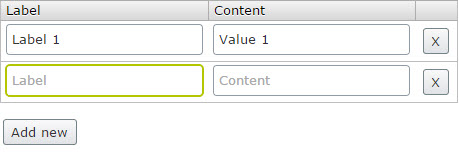
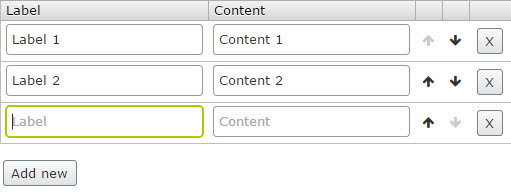
Bug fixes/changes to KeyValueList.

Changed region(s): [[0.0, 0.0256, 1.0, 0.7949], [0.0, 0.8205, 0.183, 0.9744]]

diff --git a/src/ClientResources/Scripts/editors/KeyValueList.js b/src/ClientResources/Scripts/editors/KeyValueList.js
@@ -15,8 +15,10 @@
         "dijit/form/ValidationTextBox",
         "dijit/form/Button",
         "epi/epi",
-        "epi/shell/widget/_ValueRequiredMixin"
-    ],
+        "epi/shell/widget/_ValueRequiredMixin",
+        'xstyle/css!../styles/font-awesome.min.css',
+        'xstyle/css!../styles/KeyValueList.css'
+],
     function (
         array, 
         declare, 
@@ -24,7 +26,7 @@
         dom, 
         domConstruct, 
         domClass, 
-        on, 
+        on,
         widgetBase, 
         templatedMixin, 
         _WidgetsInTemplateMixin, 
@@ -81,6 +83,7 @@
                     return;
                 }
 
+                this._updateSortIcons();
                 this._set("value", propertyValue);
                 this.onChange(propertyValue);
             },
@@ -88,11 +91,36 @@
             _setValueAttr: function (value) {
                 this._set("value", value);
 
-                array.forEach(value, this._addElementsForItem, this); // Add 'this' to end to make sure the 'this.domNode' works in method. Why?!
+                array.forEach(value, this._addElementsForItem, this);
+                this._updateSortIcons();
             },
 
             _onInputWidgetChanged: function(e) {
                 this._calculateValue();
+            },
+
+            _updateSortIcons: function() {
+                if (this._keyValues.length < 1) {
+                    return;
+                }
+
+                var firstIndex = 0;
+                var lastIndex = this._keyValues.length - 1;
+                var firstItem = this._keyValues[firstIndex];
+
+                array.forEach(this._keyValues, function(entry) {
+                    domClass.remove(entry.sortUpLink, "disabled");
+                    domClass.remove(entry.sortDownLink, "disabled");
+                });
+
+                domClass.add(firstItem.sortUpLink, "disabled");
+
+                if (lastIndex > firstIndex) {
+                    var lastItem = this._keyValues[lastIndex];
+                    domClass.add(lastItem.sortDownLink, "disabled");
+                } else {
+                    domClass.add(firstItem.sortDownLink, "disabled");
+                }
             },
 
             addNewItem: function () {
@@ -107,15 +135,46 @@
                 var firstTd = domConstruct.create("td", null, tr);
                 var secondTd = domConstruct.create("td", null, tr);
                 var thirdTd = domConstruct.create("td", null, tr);
+                var fourthTd = domConstruct.create("td", null, tr);
+                var fifthTd = domConstruct.create("td", null, tr);
 
+                // Key input
                 var key = this._getTextbox(item.key, "key").set("placeholder", "Label");
-
                 key.placeAt(firstTd);
 
+                // Value input
                 var value = this._getTextbox(item.value, "value").set("placeholder", "Content");
-
                 value.placeAt(secondTd);
 
+                // Sort up button
+                var sortUpLink = domConstruct.create("a", { href: "javascript:void(0)" }, thirdTd);
+                var sortUpIcon = domConstruct.create("i", null, sortUpLink);
+                sortUpIcon.setAttribute("class", "fa fa-fw fa-arrow-up");
+
+                // Sort down button
+                var sortDownLink = domConstruct.create("a", { href: "javascript:void(0)" }, fourthTd);
+                var sortDownIcon = domConstruct.create("i", null, sortDownLink);
+                sortDownIcon.setAttribute("class", "fa fa-fw fa-arrow-down");
+
+                on(sortUpLink, "click", lang.hitch(this, function (e) {
+                    if (domClass.contains(sortUpLink, "disabled")) {
+                        return false;
+                    }
+
+                    this._sortItemUp(tr, e);
+                    return false;
+                }));
+
+                on(sortDownLink, "click", lang.hitch(this, function(e) {
+                    if (domClass.contains(sortDownLink, "disabled")) {
+                        return false;
+                    }
+
+                    this._sortItemDown(tr, e);
+                    return false;
+                }));
+
+                // Remove button
                 var btn = new button({
                     label: "X",
                     main: this,
@@ -130,10 +189,22 @@
                     this.main._onInputWidgetChanged();
                 });
 
-                btn.placeAt(thirdTd);
+                btn.placeAt(fifthTd);
 
-                var newItem = this._pushItem(tr, key, value);
+                var newItem = this._pushItem(tr, key, value, sortUpLink, sortDownLink);
                 return newItem;
+            },
+
+            _getItemIndex: function (tr) {
+                for (var i = 0; i < this._keyValues.length; i++) {
+                    var entry = this._keyValues[i];
+
+                    if (entry.tr == tr) {
+                        return i;
+                    }
+                }
+
+                return -1;
             },
 
             _removeItem: function (tr) {
@@ -146,17 +217,57 @@
                 });
 
                 this._keyValues = newItems;
+                this._updateSortIcons();
             },
-            _pushItem: function (tr, key, value) {
+
+            _pushItem: function (tr, key, value, sortUpLink, sortDownLink) {
                 var o = {
                     tr: tr,
                     key: key,
-                    value: value
+                    value: value,
+                    sortUpLink: sortUpLink,
+                    sortDownLink: sortDownLink
                 };
 
                 this._keyValues.push(o);
+                this._updateSortIcons();
                 return o;
             },
+
+            _sortItemUp: function (item) {
+                var prevItem = item.previousElementSibling;
+
+                if (prevItem != null) {
+                    this._moveKeyValueItem(this._getItemIndex(item), -1);
+                    var parent = item.parentElement;
+                    parent.insertBefore(item, prevItem);
+
+                    this._onInputWidgetChanged();
+                }
+            },
+
+            _sortItemDown: function (item) {
+                var nextItem = item.nextElementSibling;
+
+                if (nextItem != null) {
+                    this._moveKeyValueItem(this._getItemIndex(item), 1);
+                    var parent = item.parentElement;
+
+                    if (nextItem == parent.lastChild) {
+                        parent.appendChild(item);
+                    } else {
+                        parent.insertBefore(item, nextItem.nextElementSibling);
+                    }
+
+                    this._onInputWidgetChanged();
+                }
+            },
+
+            _moveKeyValueItem: function (index, step) {
+                var newIndex = index + step;
+                this._keyValues.splice(newIndex, 0, this._keyValues.splice(index, 1)[0]);
+            },
+
             _getTextbox: function (value, cssClass) {
                 var tb = new textbox({
                     value: value

diff --git a/src/ClientResources/Scripts/templates/KeyValueList.html b/src/ClientResources/Scripts/templates/KeyValueList.html
@@ -6,9 +6,11 @@
                     <th>Label</th>
                     <th>Content</th>
                     <th>&nbsp;</th>
+                    <th>&nbsp;</th>
+                    <th>&nbsp;</th>
                 </tr>
             </thead>
-            <tbody data-dojo-attach-point="containerNode">
+            <tbody data-dojo-attach-point="containerNode" class="keyValueListBody">
                 
             </tbody>
         </table>

diff --git a/src/ClientResources/Scripts/styles/KeyValueList.css b/src/ClientResources/Scripts/styles/KeyValueList.css
@@ -1,0 +1,7 @@
+.keyValueListBody .disabled,
+.keyValueListBody .disabled:hover,
+.keyValueListBody .disabled:visited,
+.keyValueListBody .disabled:active {
+    color: #ccc!important;
+    cursor: default;
+}
